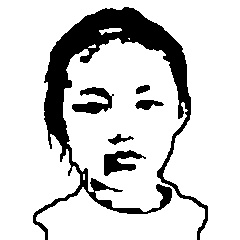
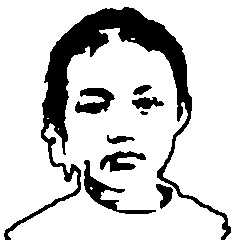
17.10.23 17:27

diff --git a/faceFeature/partitionMethod.py b/faceFeature/partitionMethod.py
@@ -142,7 +142,7 @@ def skinModel(srcImg):
                 ########################################################################
             # skin color detection
             #if Cb >= 80 and Cb <= 127 and Cr >= 141 and Cr <= 173:
-            if Cb >= 77 and Cb <= 127 and Cr >= 140and Cr <= 175:
+            if Cb >= 77 and Cb <= 127 and Cr >= 137and Cr <= 173:
                 skin = 1
                 # print 'Skin detected!'
             if 0 == skin:
@@ -153,15 +153,66 @@ def skinModel(srcImg):
     cv2.imshow("skin",imgSkin)
     return imgSkin
 #通过漫水填充去除背景
+
+
 def removeBackground(srcImg):
     img = srcImg.copy()
     sp = img.shape
     mask = np.zeros((img.shape[0]+2,img.shape[1]+2),np.uint8)
-    cv2.floodFill(img, mask, (5, 5), (255, 255, 255), (4, 4, 4), (3, 3, 3), 8)
+    cv2.floodFill(img, mask, (3, 3), (255, 255, 255), (3, 3, 3), (3, 3, 3), 8)
+    #img = myFloodFill(img,mask,(5,5),(3, 3, 3), (3, 3, 3), 8)
     #mask = np.zeros((img.shape[0]+2,img.shape[1]+2),np.uint8)
     #cv2.floodFill(img, mask, (5,img.shape[0]-5), (255, 255, 255), (3, 3, 3), (3, 3, 3), 8)
     cv2.imshow("floodfill", img)
     return img
+
+def myFloodFill(img,PointLabel,point,upLimit,downLimit,NeiborMode):
+    sp = img.shape
+    NeiborPos = [] #将邻域压进容器
+    NeiborPos.append((-1,0))
+    NeiborPos.append((1, 0))
+    NeiborPos.append((0, -1))
+    NeiborPos.append((0, 1))
+    if NeiborMode == 8:
+        print("Neighbor mode: 8邻域.")
+        NeiborPos.append((-1, -1))
+        NeiborPos.append((-1, 1))
+        NeiborPos.append((1, -1))
+        NeiborPos.append((1, 1))
+        NeihborCount = 8
+    else:
+        print("Neighbor mode: 4邻域.")
+        NeihborCount = 4
+    CurrX = point[0]
+    CurrY = point[1]
+    GrowBuffer = []
+    GrowBuffer.append(point)
+    #0表示未处理，1表示正在处理，2表示正样本，3表示负样本
+    PointLabel[CurrX,CurrY] = 2
+    z = 0
+    while z < len(GrowBuffer):
+        for q in range(NeihborCount):
+            CurrX = GrowBuffer[z][0] + NeiborPos[q][0]
+            CurrY = GrowBuffer[z][1] + NeiborPos[q][1]
+            if PointLabel[CurrX,CurrY] == 0:
+                GrowBuffer.append((CurrX,CurrY))
+            downx = img[GrowBuffer[z][0],GrowBuffer[z][1],0]-downLimit[0]
+            downy = img[GrowBuffer[z][0],GrowBuffer[z][1],1]-downLimit[1]
+            downz = img[GrowBuffer[z][0], GrowBuffer[z][1], 2] - downLimit[2]
+            upx = img[GrowBuffer[z][0], GrowBuffer[z][1], 0] + upLimit[0]
+            upy = img[GrowBuffer[z][0], GrowBuffer[z][1], 1] + upLimit[1]
+            upz = img[GrowBuffer[z][0], GrowBuffer[z][1], 2] + upLimit[2]
+            if img[CurrX,CurrY,0] >= downx and img[CurrX,CurrY,0] <=upx and img[CurrX,CurrY,1] >=downy and img[CurrX,CurrY,1]<=upy and img[CurrX,CurrY,2]>=downz and img[CurrX,CurrY,2]<=upz:
+                PointLabel[CurrX,CurrY] = 2
+            else:
+                PointLabel[CurrX,CurrY] = 3
+        z +=1
+    for i in range(sp[0]):
+        for j in range(sp[1]):
+            if PointLabel[i,j] == 2:
+                img[i,j] = (255,255,255)
+    return img
+
 #通过人脸检测裁剪人脸
 def tailorImg(img,faces):
     if len(faces) == 1:
@@ -189,7 +240,7 @@ def meanBrightness(imgSKIN,imgGRAY):
     else:
         return count,0
 #轮廓完善
-def skeletonComplete(imgResult,imgSKIN):
+def skeletonComplete(imgResult,imgSKIN,imgFace):
     kernel = cv2.getStructuringElement(cv2.MORPH_RECT, (3, 3))
     new_skin = imgSKIN
     new_skin = cv2.medianBlur(new_skin,3)
@@ -204,6 +255,8 @@ def skeletonComplete(imgResult,imgSKIN):
     # new_skin = delete_jut(new_skin, 10, 10, 1)
     # new_skin = RemoveSmallRegion(new_skin,2000,0,1)
     # new_skin = RemoveSmallRegion(new_skin,2000,1,1)
+    #imgResult = hairProcess(new_skin,imgFace,imgResult)
+
     cv2.imshow("new_skin",new_skin)
 
     #binary, contours, hierarchy = cv2.findContours(new_skin, cv2.RETR_TREE, cv2.CHAIN_APPROX_NONE)
@@ -431,9 +484,9 @@ def computeEdgesPoint(img):
     if temp > 0 and temp<=0.05:
         return 8*temp
     elif temp> 0.05 and temp<=0.1:
-        return 6*temp
+        return 5*temp
     elif temp>0.1 and temp<=0.2:
-        return 3*temp
+        return 2.5*temp
     elif temp>0.3 and temp<=0.4:
         return 1.4*temp
     else:
@@ -443,19 +496,21 @@ def divisionThreshold(imgSKIN,imgFace,imgCanny):
     useless,theta = meanBrightness(imgSKIN=imgSKIN, imgGRAY=imgFace)
 
     print("平均亮度",theta)
-    divisionCount = 33
+    sp = imgSKIN.shape
+    divisionCount = math.floor(sp[1]/10)
     #初始化数组大小
     imgSegment = [None] * divisionCount
     imgSkinSegment = [None] * divisionCount
     for i in range(len(imgSegment)):
         imgSegment[i] = [0] * divisionCount
         imgSkinSegment[i] = [0] * divisionCount
-    sp = imgSKIN.shape
+
     new_w = math.floor(sp[1]/divisionCount)
     new_h = math.floor(sp[0]/divisionCount)
     dst = imgSKIN.copy()
     dst = dst[0:new_h*divisionCount,0:new_w*divisionCount]
     newSkin = imgSKIN[0:new_h*divisionCount,0:new_w*divisionCount]
+    newFace = imgFace[0:new_h*divisionCount,0:new_w*divisionCount]
     for i in range(divisionCount):
         for j in range(divisionCount):
             imgSegment[i][j] = imgFace[i*new_h:(i+1)*new_h,j*new_w:(j+1)*new_w]
@@ -473,7 +528,22 @@ def divisionThreshold(imgSKIN,imgFace,imgCanny):
         for j in range(divisionCount):
             dst[i*new_h:(i+1)*new_h,j*new_w:(j+1)*new_w]=imgSegment[i][j]
     ret,dst = cv2.threshold(dst,100,255,cv2.THRESH_BINARY)
-    return dst,newSkin
+    return dst,newSkin,newFace
+
+#头发处理
+def hairProcess(imgSkinTemp,imgGrayTemp,resultTemp):
+    sp = imgGrayTemp.shape
+    print(imgSkinTemp.shape,imgGrayTemp.shape,resultTemp.shape)
+    ret,imgGrayTempBin =  cv2.threshold(imgGrayTemp,254,255,cv2.THRESH_BINARY_INV)
+
+    for i in range(sp[0]):
+        for j in range(sp[1]):
+            if imgGrayTempBin[i,j] > 0 and imgSkinTemp[i,j] == 0:
+                resultTemp[i,j]=0
+    return resultTemp
+
+
+
 #总的图片处理过程
 def processImg(img):
     kernel = cv2.getStructuringElement(cv2.MORPH_RECT, (3, 3))
@@ -492,7 +562,8 @@ def processImg(img):
 
     imgGray = cv2.cvtColor(img,cv2.COLOR_BGR2GRAY)
     #获取到的人物头像前景图
-    imgFace = tailorImg(imgFront,faces)
+    imgFace = tailorImg(img,faces)
+    imgFace = removeBackground(imgFace)
     #获取imgFace的肤色图
     imgFace_Skin = skinModel(imgFace)
     ####################################################
@@ -514,16 +585,17 @@ def processImg(img):
     cv2.imshow("imgFace_gray",imgFace_Gray)
     canny = cv2.Canny(imgFace_Gray,40,120)
     cv2.imshow("canny",canny)
-    imgFace_thresh,newSkin = divisionThreshold(imgSKIN=imgFace_Skin,imgFace=imgFace_Gray,imgCanny=canny)
+    imgFace_thresh,newSkin,newFace = divisionThreshold(imgSKIN=imgFace_Skin,imgFace=imgFace_Gray,imgCanny=canny)
     #ret,imgFace_thresh = cv2.threshold(imgFace_Gray,0.7*int(theta),255,cv2.THRESH_BINARY)
+
     cv2.imshow("face_threshold",imgFace_thresh)
     #轮廓补充
-    result = skeletonComplete(imgFace_thresh,imgSKIN=newSkin)
+    result = skeletonComplete(imgFace_thresh,imgSKIN=newSkin,imgFace=newFace)
     return result
 #整套图片处理
 def createResult():
-    i = 23
-    while i <= 26:
+    i = 1
+    while i <= 39:
         print(i)
         img = cv2.imread("img/" + str(i) + ".jpg", 1)
         img = cv2.medianBlur(img, 3)
@@ -536,19 +608,19 @@ def createResult():
         i = i + 1
 #单个图片处理
 def unitTest():
-    img = cv2.imread("img/32.jpg",1)
+    img = cv2.imread("img/38.jpg",1)
     img = cv2.medianBlur(img,3)
     dst = processImg(img)
     dst = cv2.medianBlur(dst,3)
     dst = RemoveSelectRegion(dst,20,0,0,1)
     dst = delete_jut(dst,1,1,1)
     dst = delete_jut(dst,1,1,0)
-    #cv2.imwrite("result/27.jpg", dst)
     cv2.imshow("result",dst)
+    print(dst.shape)
 if __name__ == '__main__':
     gamma = 0.550
     lamda = 0.6600
     bata = 0.3400
-    unitTest()
+    createResult()
     cv2.waitKey(0)
 
